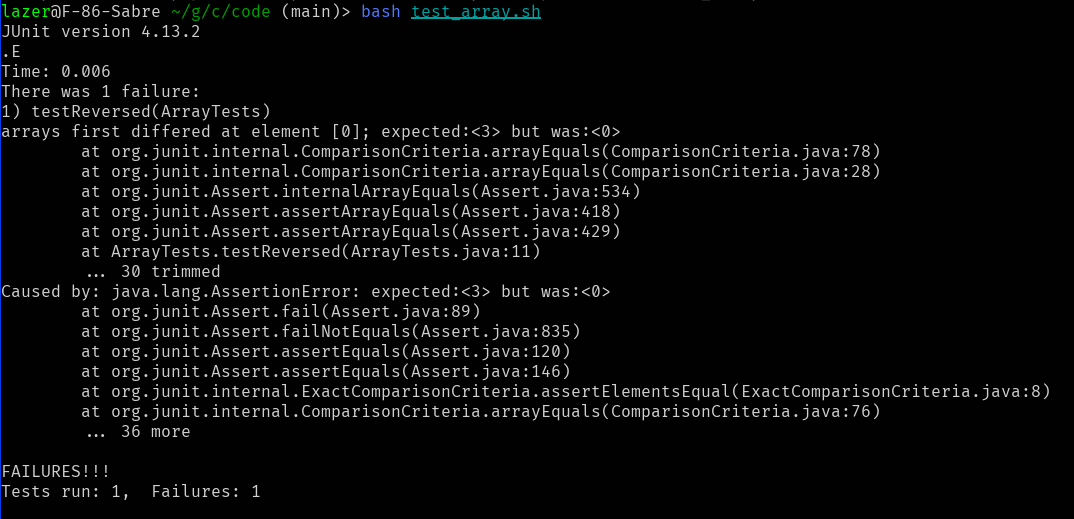
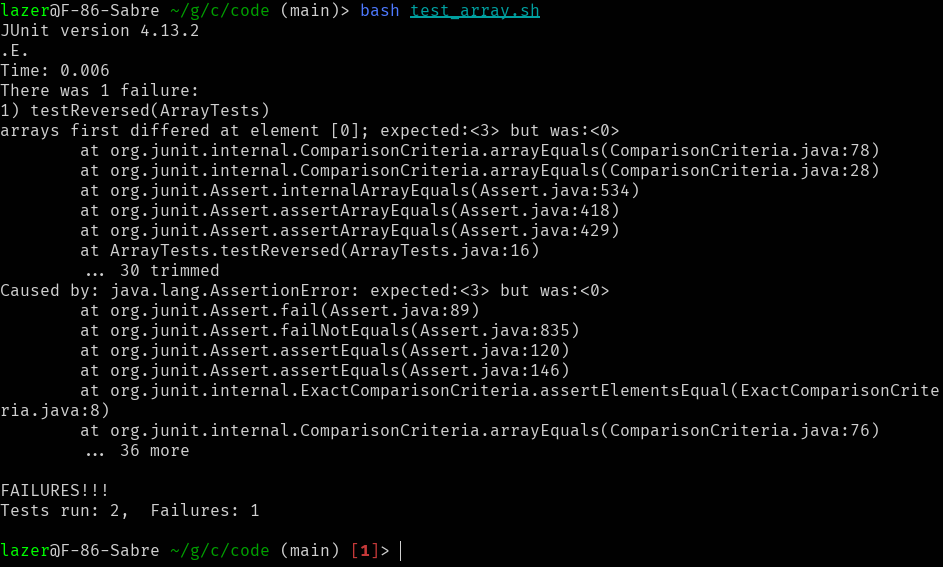
fix lab report 3

Changed region(s): [[0.0, 0.0, 1.0, 0.9865]]

diff --git a/code/ArrayTests.java b/code/ArrayTests.java
@@ -2,12 +2,23 @@ import static org.junit.Assert.*;
 import org.junit.*;
 
 public class ArrayTests {
+  // @Test
+  // public void testReversed() {
+  //   int[] input1 = { };
+  //   assertArrayEquals(new int[]{ }, Array.reversed(input1));
+  
+  //   int[] input2 = { 1, 2, 3 };
+  //   assertArrayEquals(new int[]{ 3, 2, 1 }, Array.reversed(input2));
+  // }
   @Test
   public void testReversed() {
-    int[] input1 = { };
-    assertArrayEquals(new int[]{ }, Array.reversed(input1));
-  
-    int[] input2 = { 1, 2, 3 };
-    assertArrayEquals(new int[]{ 3, 2, 1 }, Array.reversed(input2));
+      int[] input2 = { 1, 2, 3 };
+      assertArrayEquals(new int[]{ 3, 2, 1 }, Array.reversed(input2));
+  }
+
+  @Test
+  public void testReversed2() {
+      int[] input1 = { };
+      assertArrayEquals(new int[]{ }, Array.reversed(input1));
   }
 }

diff --git a/lab-report-3.md b/lab-report-3.md
@@ -13,7 +13,7 @@ public void testReversed() {
 ## An input that does not induce a failure
 ```java
 @Test
-public void testReversed() {
+public void testReversed2() {
     int[] input1 = { };
     assertArrayEquals(new int[]{ }, Array.reversed(input1));
 }
@@ -58,6 +58,9 @@ command:
 ```sh
 grep -n "finch" ./technical/*/*.txt
 ```
+
+For this command it is searching through all the files that matched with `./technical/*/*.txt` to find a match of the expression "finch"; putting `-n` makes it so that not only will `grep` output the filenames and line, but also the line number for each match.
+
 output:
 
     technical/biomed/1471-2105-3-2.txt:7:        Galapagos finches led to an appreciation of the structural
@@ -68,6 +71,8 @@ command:
 ```sh
 grep -n "if (" ./technical/biomed/1471-2105-3-14.txt
 ```
+For this command it is searching in the file `./technical/biomed/1471-2105-3-14.txt` to find a match of the expression "if ("; putting `-n` makes it so that not only will `grep` output the filenames and line, but also the line number for each match.
+
 output:
 
     516:          if (sum of duplications in 
@@ -97,6 +102,9 @@ command:
 ```sh
 grep -o "[0-9,\.]\+ times \w\+ likely" ./technical/*/*.txt
 ```
+
+This command is searching for matches in every file that matches `./technical/*/*.txt` for any matches of the expression `[0-9,\.]\+ times \w\+ likely`, which is a regular expression that matches a number, then "times", then a word, then "likely". Putting `-o` shows only what matches this regular expression, instead of outputing the entire line of where the match was.
+
 output:
 
     ./technical/biomed/1471-2458-2-6.txt:1.5 times more likely
@@ -109,6 +117,9 @@ command:
 ```sh
 grep -o "mRNA is \w\{10\}\>" ./technical/*/*.txt
 ```
+
+This command is searching for matches in every file that matches `./technical/*/*.txt` for any matches of the expression `mRNA is \w\{10\}\>`, which is a regular expression that matches a "mRNA is ", then a 10 letter word. Putting `-o` shows only what matches this regular expression, instead of outputing the entire line of where the match was.
+
 output:
 
     ./technical/biomed/1471-213X-3-3.txt:mRNA is translated
@@ -132,6 +143,9 @@ command:
 ```sh
 grep -C 2 "U.S. Navy" ./technical/911report/chapter-6.txt
 ```
+
+This command searches for the string "U.S. Navy" in the file `./technical/911report/chapter-6.txt`, but putting the `-C 2` option makes it so that not only does the line that contains the match get output, but also the 2 lines above and 2 lines below.
+
 output:
 
     in the port of Aden, but the attempt failed when the suicide boat sank. More than
@@ -148,6 +162,9 @@ command:
 ```sh
 grep -C 1 "java\>" ./technical/*/*.txt
 ```
+
+This command searches for the word "java" with a space after in all the files that match `./technical/*/*.txt`, but putting the `-C 1` option makes it so that not only does the line that contains the match get output, but also the 1 line above and 1 line below.
+
 output:
 
     ./technical/biomed/1471-2105-3-12.txt-            prematurely. An error message "An internal error has
@@ -176,6 +193,9 @@ command:
 ```sh
 grep -l "Feynman" ./technical/*/*.txt
 ```
+
+This command searches for the word "Feynman" in all the files that match `./technical/*/*.txt`, but having the `-l` option makes it so that only the file path from the files that match get output from the command.
+
 output:
 
     ./technical/plos/journal.pbio.0020073.txt
@@ -187,6 +207,9 @@ command:
 ```sh
 grep -l "Nazi" ./technical/*/*.txt
 ```
+
+This command searches for the word "Nazi" in all the files that match `./technical/*/*.txt`, but having the `-l` option makes it so that only the file path from the files that match get output from the command.
+
 output:
 
     ./technical/911report/chapter-3.txt

diff --git a/lab-report-4.md b/lab-report-4.md
@@ -1,0 +1,14 @@
+# Lab Report 4
+# Step 4
+Keys pressed: `s s h <up> <up> ...`
+
+I pressed up the number of times that it took to find the correct login for ieng6
+
+Then I pressed `<enter>` to run the command that logs me into the remote server
+# Step 5
+Keys pressed: `g i t <space> c l o n e <space>`
+
+# Step 6
+# Step 7
+# Step 8
+# Step 9
